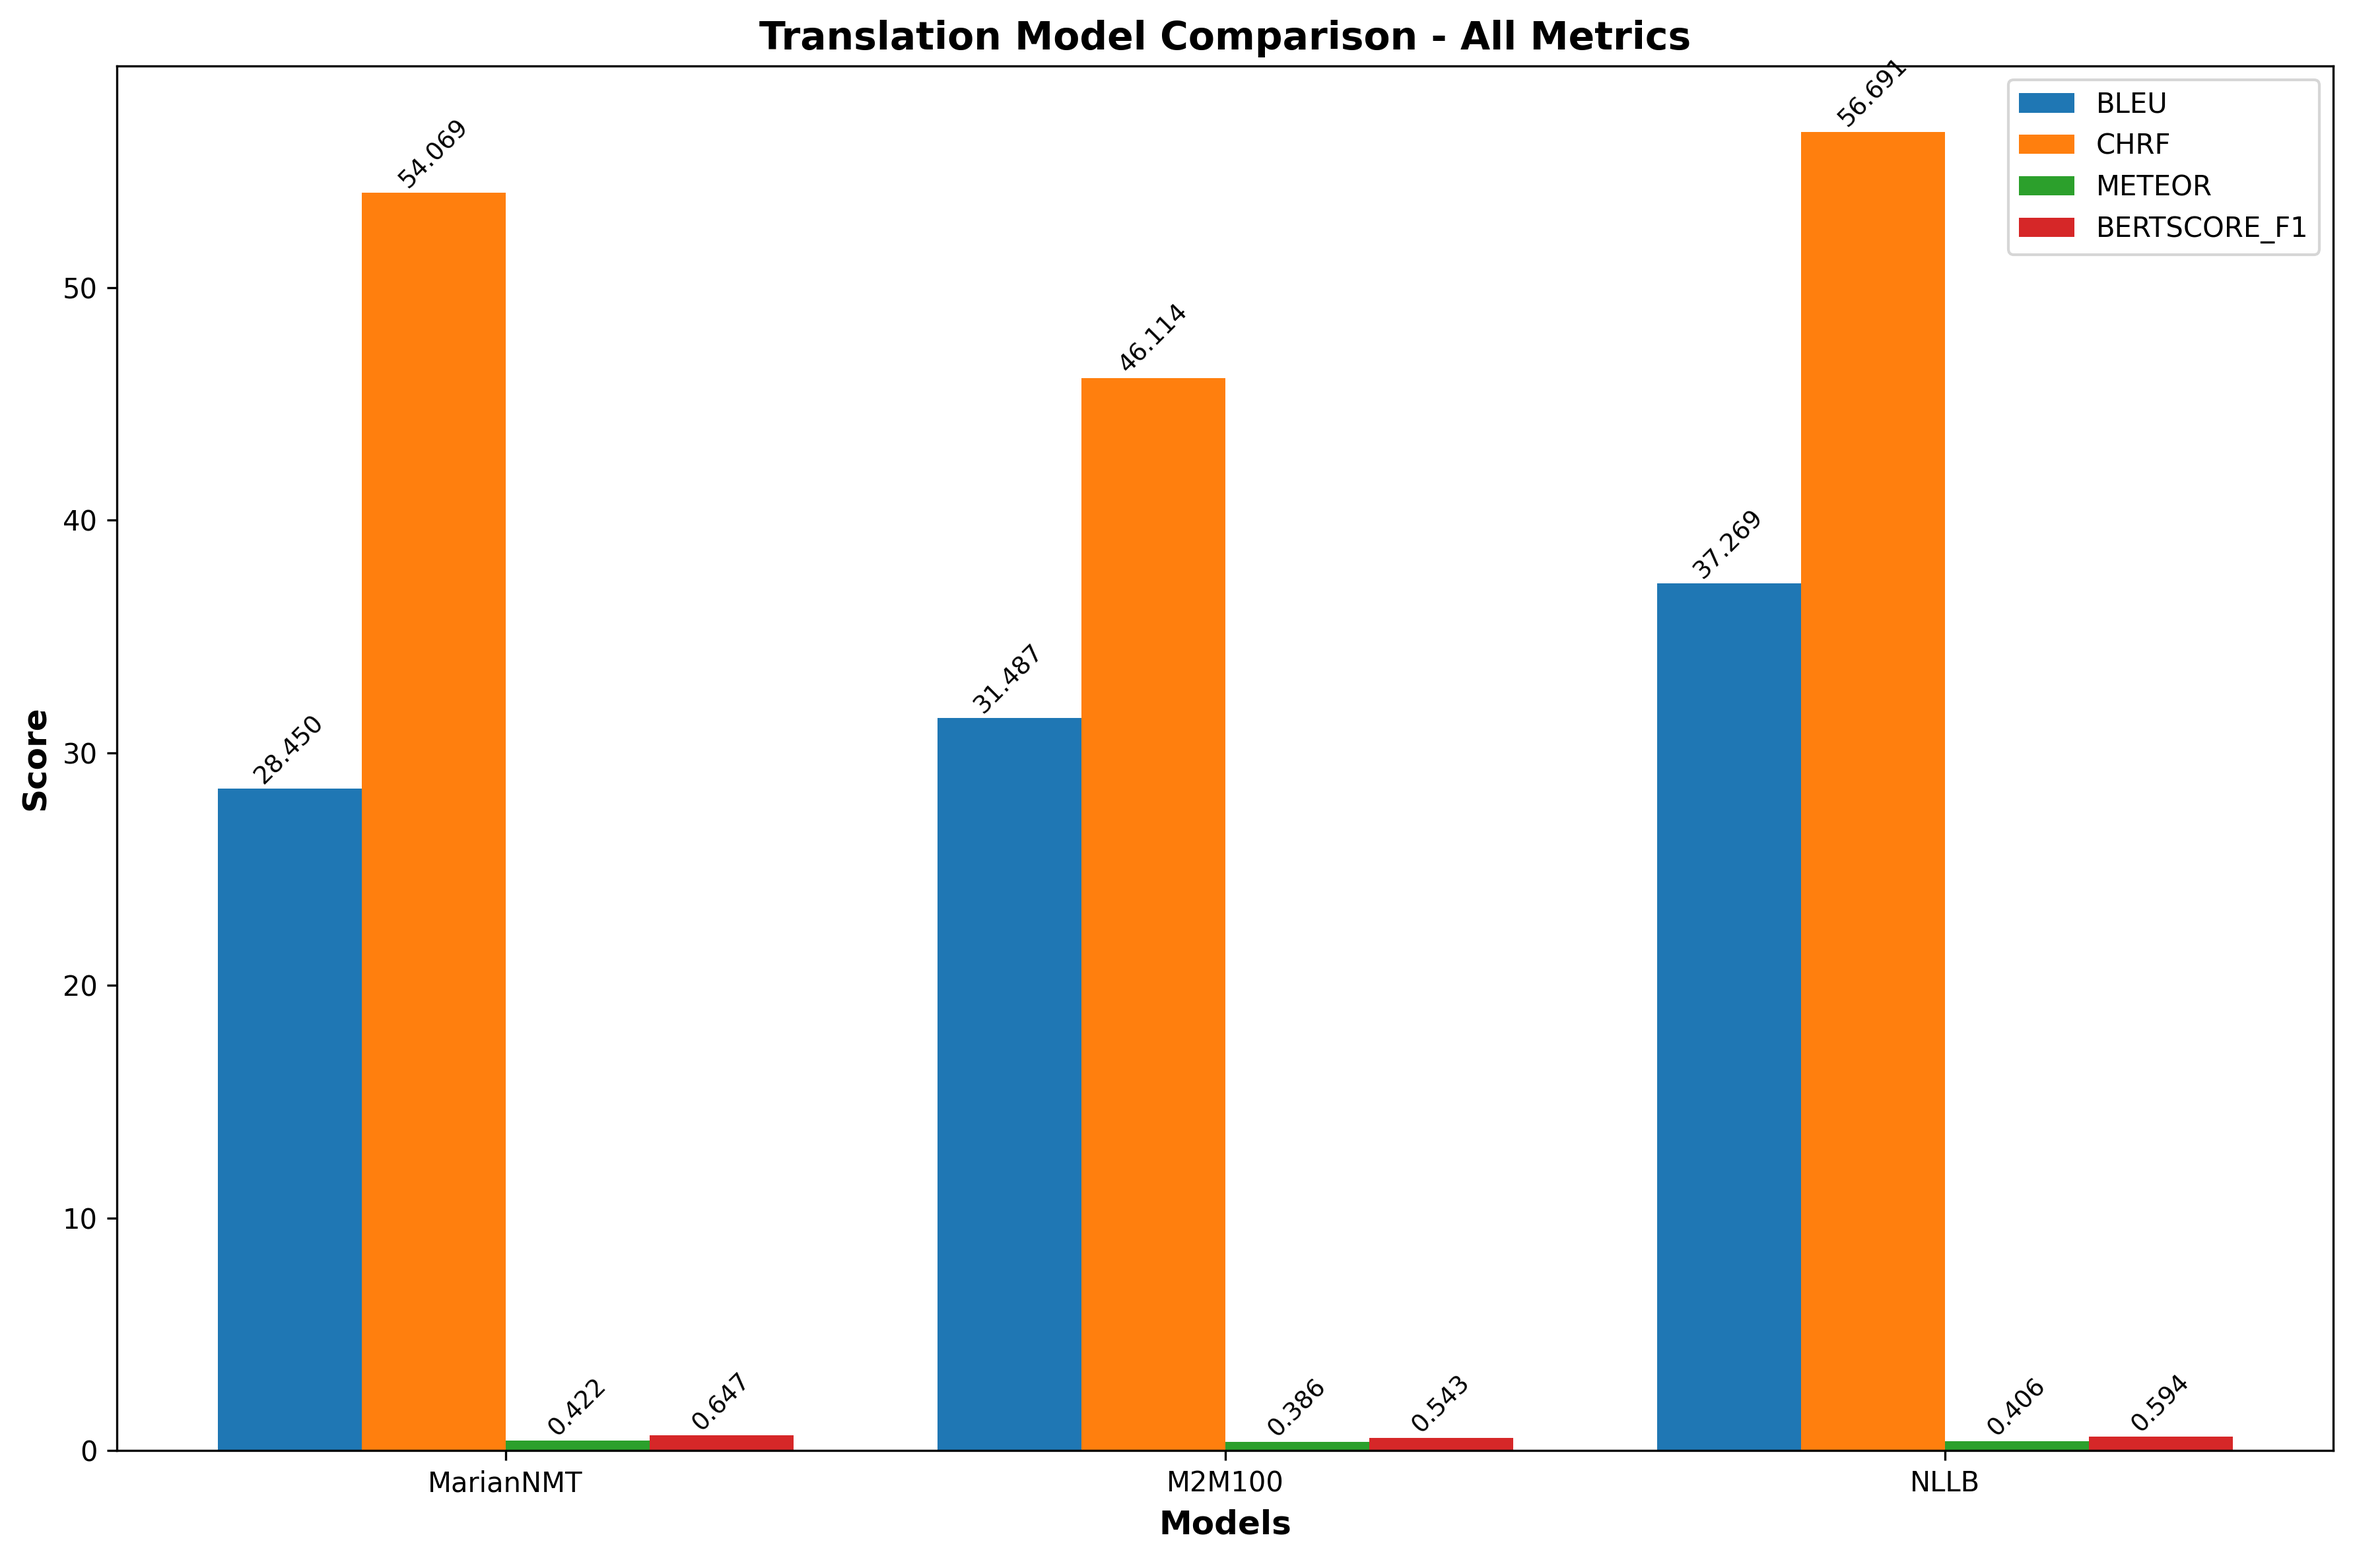
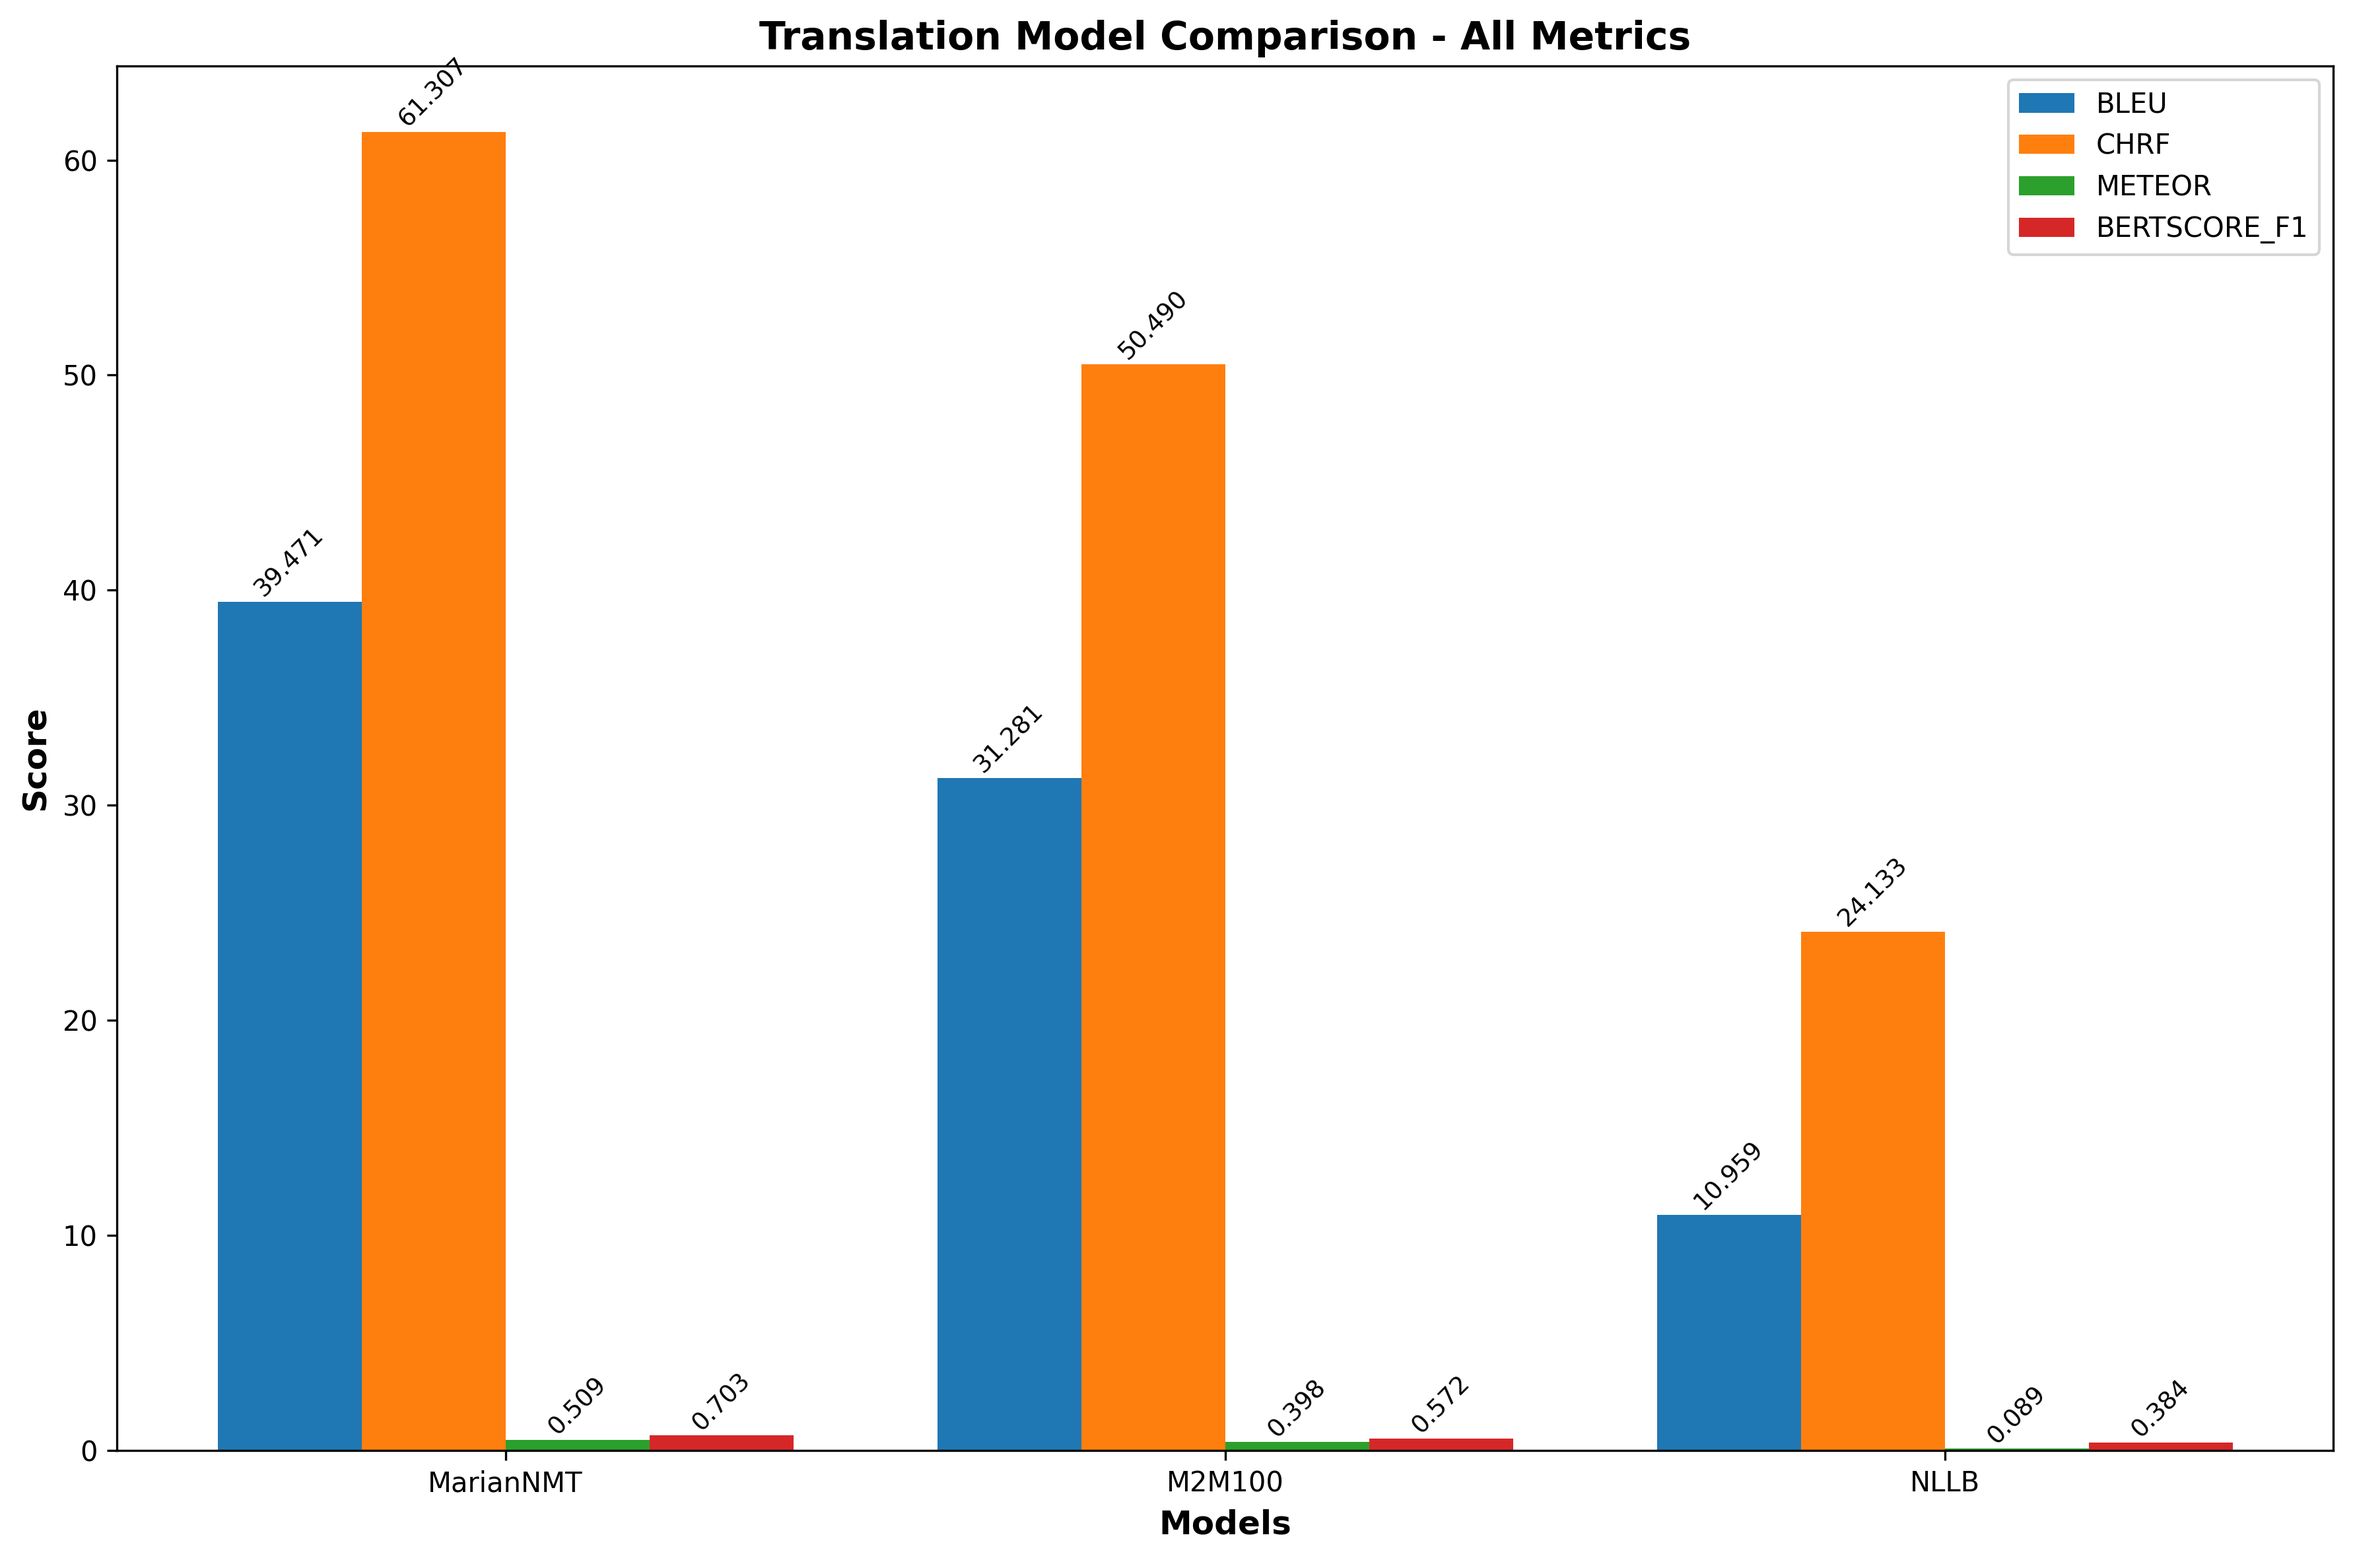
inference and some tweaks here and there

diff --git a/domain_utils.py b/domain_utils.py
@@ -1,0 +1,72 @@
+from datasets import load_dataset
+from typing import List, Tuple, Dict, Optional, Union
+from pathlib import Path
+from datetime import UTC, datetime
+import lxml.etree as etree
+import PythonTmx as tmx
+import pandas as pd
+from tqdm import tqdm
+import os
+
+class DomainProcessing:
+    def __init__(self, paths: Union[str,Path, List[Union[str, Path]]]):
+        self.paths = [Path(p) for p in (paths if isinstance(paths,list) else [paths])]
+        self.domain = None
+        self.sentences = []
+        
+        for path in self.paths:
+            try:
+                self.domain = load_dataset(str(path))
+                self.content = None
+            except:
+                if type(path) == Path:
+                    path = str(path)
+                else:
+                    try:
+                        # Load a TMX file
+                        tmx_file: etree._ElementTree = etree.parse(
+                                str(path), etree.XMLParser(encoding="utf-16le")
+                        )
+                        tmx_root: etree._Element = tmx_file.getroot()
+                        self.sentences.extend(self.extract_translations(tmx_root))
+                    except etree.XMLSyntaxError as e:
+                        raise ValueError(f"Failed to parse TMX file: {e}")
+                    except Exception as e:
+                        raise RuntimeError(f"Unexpected error while processing TMX file: {e}")
+
+    def extract_translations(self, root: etree._Element) -> List[Dict[str,str]]:
+        translations = []
+
+        for tu in tqdm(root.findall(".//tu")):
+            en_sentence = None
+            es_sentence = None
+
+            for tuv in tu.findall(".//tuv"):
+                lang = tuv.get("lang")
+                seg = tuv.find("seg")
+
+                if seg is not None and lang is not None:
+                    if lang.startswith("EN-GB"):
+                        en_sentence = seg.text.strip() if seg.text else ""
+                    elif lang.startswith("ES-ES"):
+                        es_sentence = seg.text.strip() if seg.text else ""
+            if en_sentence and es_sentence:
+                translations.append({"en":en_sentence, "es":es_sentence})
+        return translations
+
+    @property
+    def type(self):
+        if self.domain is not None:
+            return type(self.domain)
+        else:
+            return type(self.sentences)
+    
+    def process(self):
+        if self.sentences:
+            return pd.DataFrame(self.sentences)
+        return self.domain
+
+
+
+
+

diff --git a/tmp8lw55k9j/_remote_module_non_scriptable.py b/tmp8lw55k9j/_remote_module_non_scriptable.py
@@ -1,0 +1,81 @@
+from typing import *
+
+import torch
+import torch.distributed.rpc as rpc
+from torch import Tensor
+from torch._jit_internal import Future
+from torch.distributed.rpc import RRef
+from typing import Tuple  # pyre-ignore: unused import
+
+
+module_interface_cls = None
+
+
+def forward_async(self, *args, **kwargs):
+    args = (self.module_rref, self.device, self.is_device_map_set, *args)
+    kwargs = {**kwargs}
+    return rpc.rpc_async(
+        self.module_rref.owner(),
+        _remote_forward,
+        args,
+        kwargs,
+    )
+
+
+def forward(self, *args, **kwargs):
+    args = (self.module_rref, self.device, self.is_device_map_set, *args)
+    kwargs = {**kwargs}
+    ret_fut = rpc.rpc_async(
+        self.module_rref.owner(),
+        _remote_forward,
+        args,
+        kwargs,
+    )
+    return ret_fut.wait()
+
+
+_generated_methods = [
+    forward_async,
+    forward,
+]
+
+
+
+
+def _remote_forward(
+    module_rref: RRef[module_interface_cls], device: str, is_device_map_set: bool, *args, **kwargs):
+    module = module_rref.local_value()
+    device = torch.device(device)
+
+    if device.type != "cuda":
+        return module.forward(*args, **kwargs)
+
+    # If the module is on a cuda device,
+    # move any CPU tensor in args or kwargs to the same cuda device.
+    # Since torch script does not support generator expression,
+    # have to use concatenation instead of
+    # ``tuple(i.to(device) if isinstance(i, Tensor) else i for i in *args)``.
+    args = (*args,)
+    out_args: Tuple[()] = ()
+    for arg in args:
+        arg = (arg.to(device),) if isinstance(arg, Tensor) else (arg,)
+        out_args = out_args + arg
+
+    kwargs = {**kwargs}
+    for k, v in kwargs.items():
+        if isinstance(v, Tensor):
+            kwargs[k] = kwargs[k].to(device)
+
+    if is_device_map_set:
+        return module.forward(*out_args, **kwargs)
+
+    # If the device map is empty, then only CPU tensors are allowed to send over wire,
+    # so have to move any GPU tensor to CPU in the output.
+    # Since torch script does not support generator expression,
+    # have to use concatenation instead of
+    # ``tuple(i.cpu() if isinstance(i, Tensor) else i for i in module.forward(*out_args, **kwargs))``.
+    ret: Tuple[()] = ()
+    for i in module.forward(*out_args, **kwargs):
+        i = (i.cpu(),) if isinstance(i, Tensor) else (i,)
+        ret = ret + i
+    return ret

diff --git a/maml_toy.py b/maml_toy.py
@@ -1,0 +1,67 @@
+#!/usr/bin/env python3
+
+"""
+This script demonstrates how to use the MAML implementation of L2L.
+
+Each task i consists of learning the parameters of a Normal distribution N(mu_i, sigma_i).
+The parameters mu_i, sigma_i are themselves sampled from a distribution N(mu, sigma).
+"""
+
+import torch as th
+from torch import nn, optim, distributions as dist
+
+import learn2learn as l2l
+
+DIM = 5
+TIMESTEPS = 1000
+TASKS_PER_STEP = 50
+
+
+class Model(nn.Module):
+
+    def __init__(self):
+        super(Model, self).__init__()
+        self.mu = nn.Parameter(th.randn(DIM))
+        self.sigma = nn.Parameter(th.abs(th.randn(DIM)))
+
+    def forward(self, x=None):
+        return dist.Normal(self.mu, self.sigma)
+
+
+def main():
+    task_dist = dist.Normal(th.zeros(2 * DIM), th.ones(2 * DIM))
+    model = Model()
+    maml = l2l.algorithms.MAML(model, lr=1e-2)
+    opt = optim.Adam(maml.parameters())
+
+    for i in range(TIMESTEPS):
+        step_loss = 0.0
+        for t in range(TASKS_PER_STEP):
+            # Sample a task
+            task_params = task_dist.sample()
+            mu_i, sigma_i = task_params[:DIM], task_params[DIM:]
+
+            # Adaptation: Instanciate a copy of model
+            learner = maml.clone()
+            proposal = learner()
+
+            # Adaptation: Compute and adapt to task loss
+            loss = (mu_i - proposal.mean).pow(2).sum() + (sigma_i - proposal.variance).pow(2).sum()
+            learner.adapt(loss)
+
+            # Adaptation: Evaluate the effectiveness of adaptation
+            adapt_loss = (mu_i - proposal.mean).pow(2).sum() + (sigma_i - proposal.variance).pow(2).sum()
+
+            # Accumulate the error over all tasks
+            step_loss += adapt_loss
+
+        # Meta-learning step: compute gradient through the adaptation step, automatically.
+        step_loss = step_loss / TASKS_PER_STEP
+        print(i, step_loss.item())
+        opt.zero_grad()
+        step_loss.backward()
+        opt.step()
+
+
+if __name__ == '__main__':
+    main()

diff --git a/translation_model_evaluation.py b/translation_model_evaluation.py
@@ -23,9 +23,9 @@ import warnings
 
 # Configuration
 CSV_PATH = r"test_set.csv"
-MAX_SAMPLES = 41651  # Limit to 3000 samples
+MAX_SAMPLES = 2000 #41651  # Size of the test set
 OUTPUT_FILE = "results/translation_evaluation_results.csv"
-BATCH_SIZE = 16
+BATCH_SIZE = 1
 
 # Suppress warnings
 warnings.filterwarnings("ignore")
@@ -83,7 +83,7 @@ class TranslationModel:
 
 class MarianNMTModel(TranslationModel):
     """Helsinki-NLP's MarianMT model for translation"""
-    def __init__(self, model_name="tst_translation/checkpoint-83301"):
+    def __init__(self, model_name="Helsinki-NLP/opus-mt-en-es"):
         super().__init__(name="MarianNMT")
         print(f"Loading {model_name}...")
         self.tokenizer = MarianTokenizer.from_pretrained(model_name)
@@ -142,7 +142,7 @@ class NLLBModel(TranslationModel):
         # Force the decoder to generate Spanish (Latin script)
         translated = self.model.generate(
             **inputs,
-            forced_bos_token_id=self.tokenizer.lang_code_to_id["spa_Latn"]
+            forced_bos_token_id=self.tokenizer.encode("spa_Latn")[0]
         )
         return self.tokenizer.batch_decode(translated, skip_special_tokens=True)
 

diff --git a/maml_marian.py b/maml_marian.py
@@ -1,0 +1,25 @@
+from transformers import MarianMTModel, MarianTokenizer
+import torch as th
+import learn2learn as l2l
+from torch import nn, optim
+
+model_name = "Helsinki-NLP/opus-mt-en-es"
+tokenizer = MarianTokenizer.from_pretrained(model_name)
+base_model = MarianMTModel.from_pretrained(model_name)
+
+class MarianMAMLWrapper(nn.Module):
+    def __init__(self, model):
+        super().__init__()
+        self.model = model
+
+    def forward(self, input_ids, attention_mask, labels):
+        outputs = self.model(
+                input_ids=input_ids,
+                attention_mask=attention_mask,
+                labels=labels,
+                                                                                                    )
+        return outputs.loss
+
+marianNMT = MarianMAMLWrapper(base_model)
+
+maml = l2l.algorithms.MAML(marianNMT, lr=1e-4, first_order=False)
